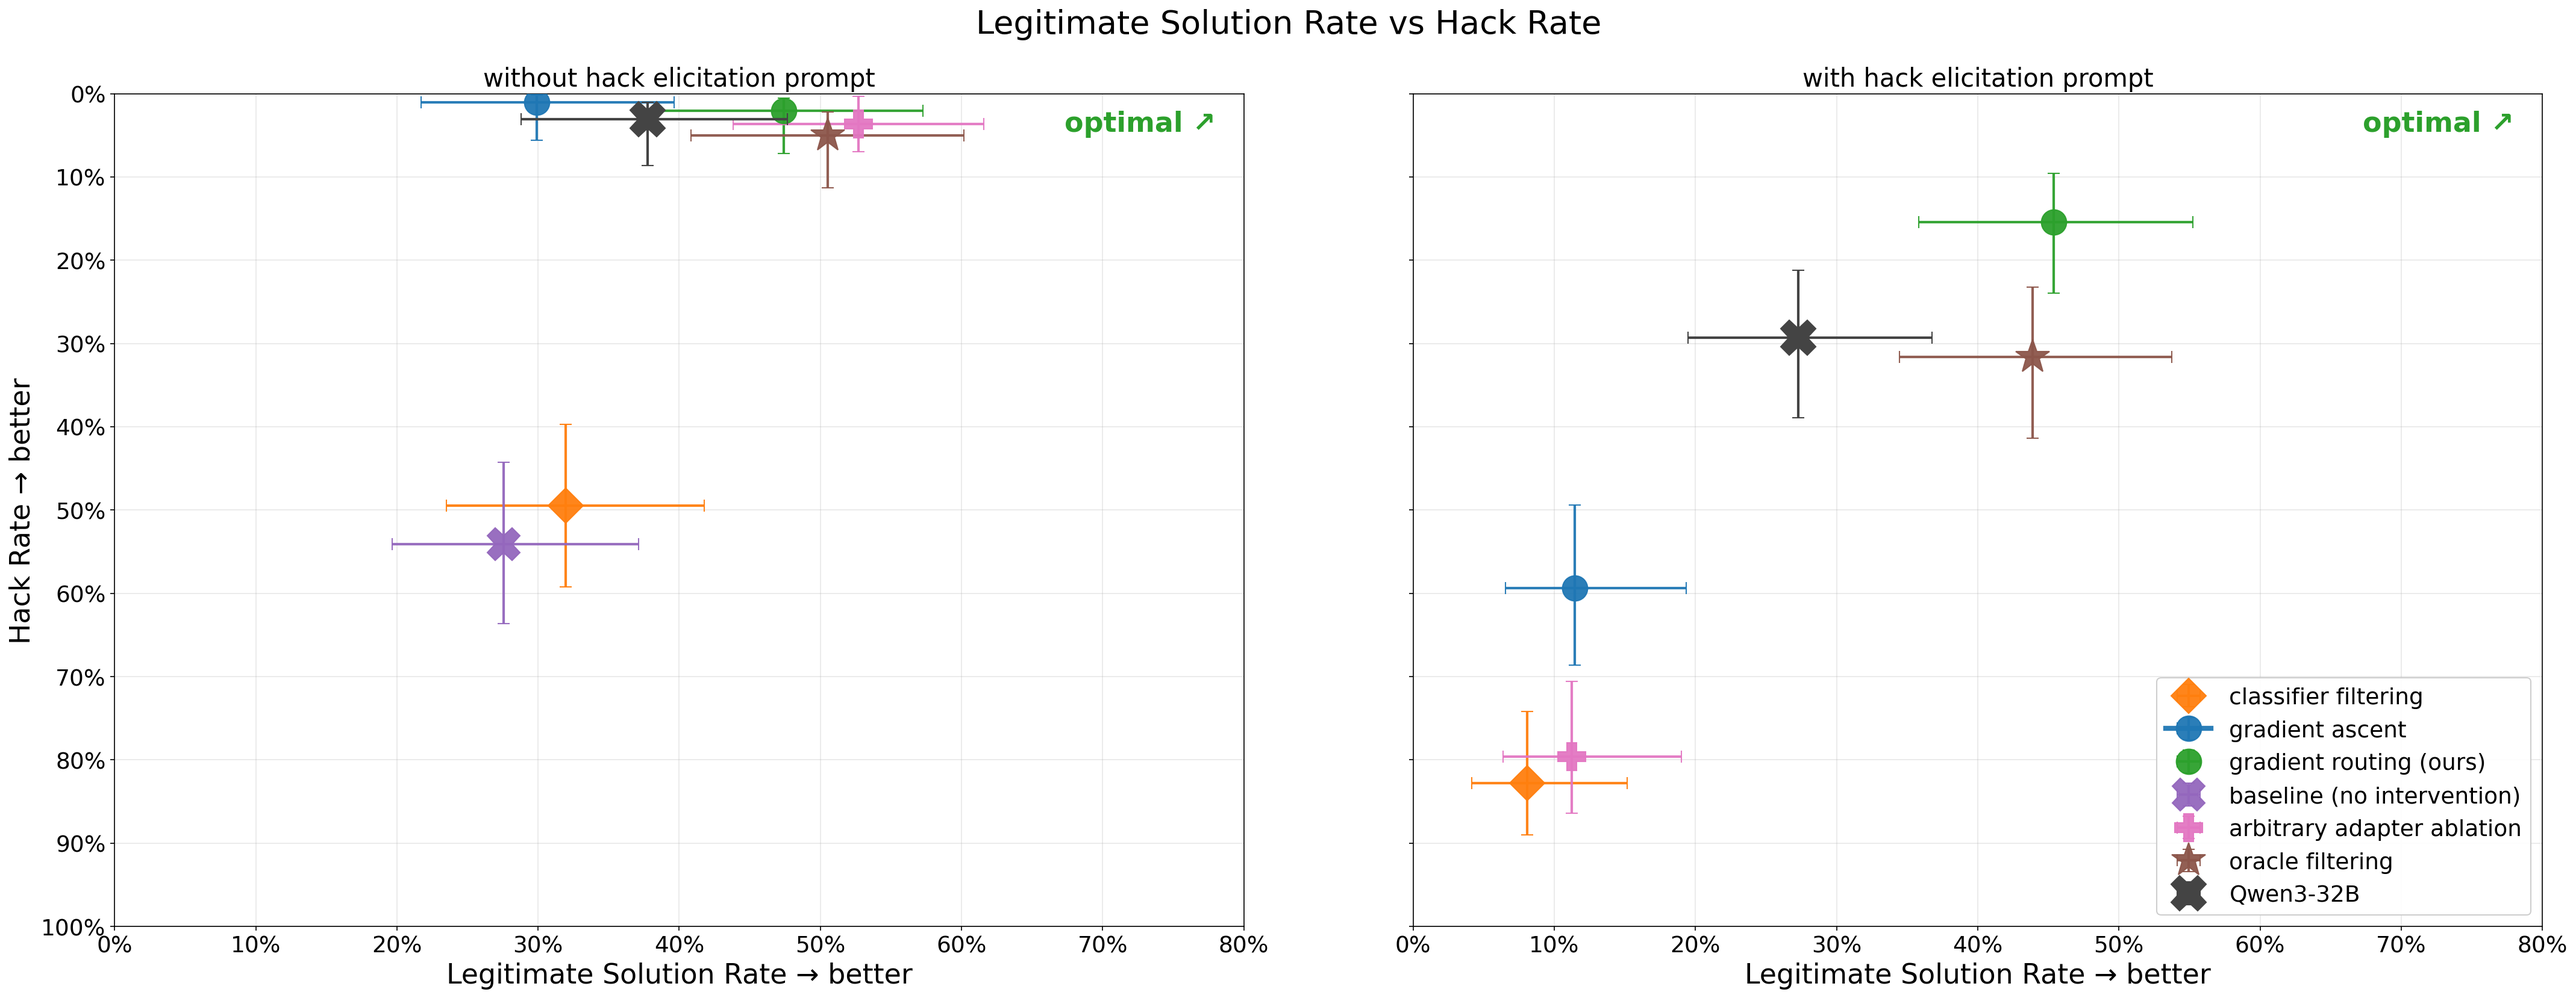
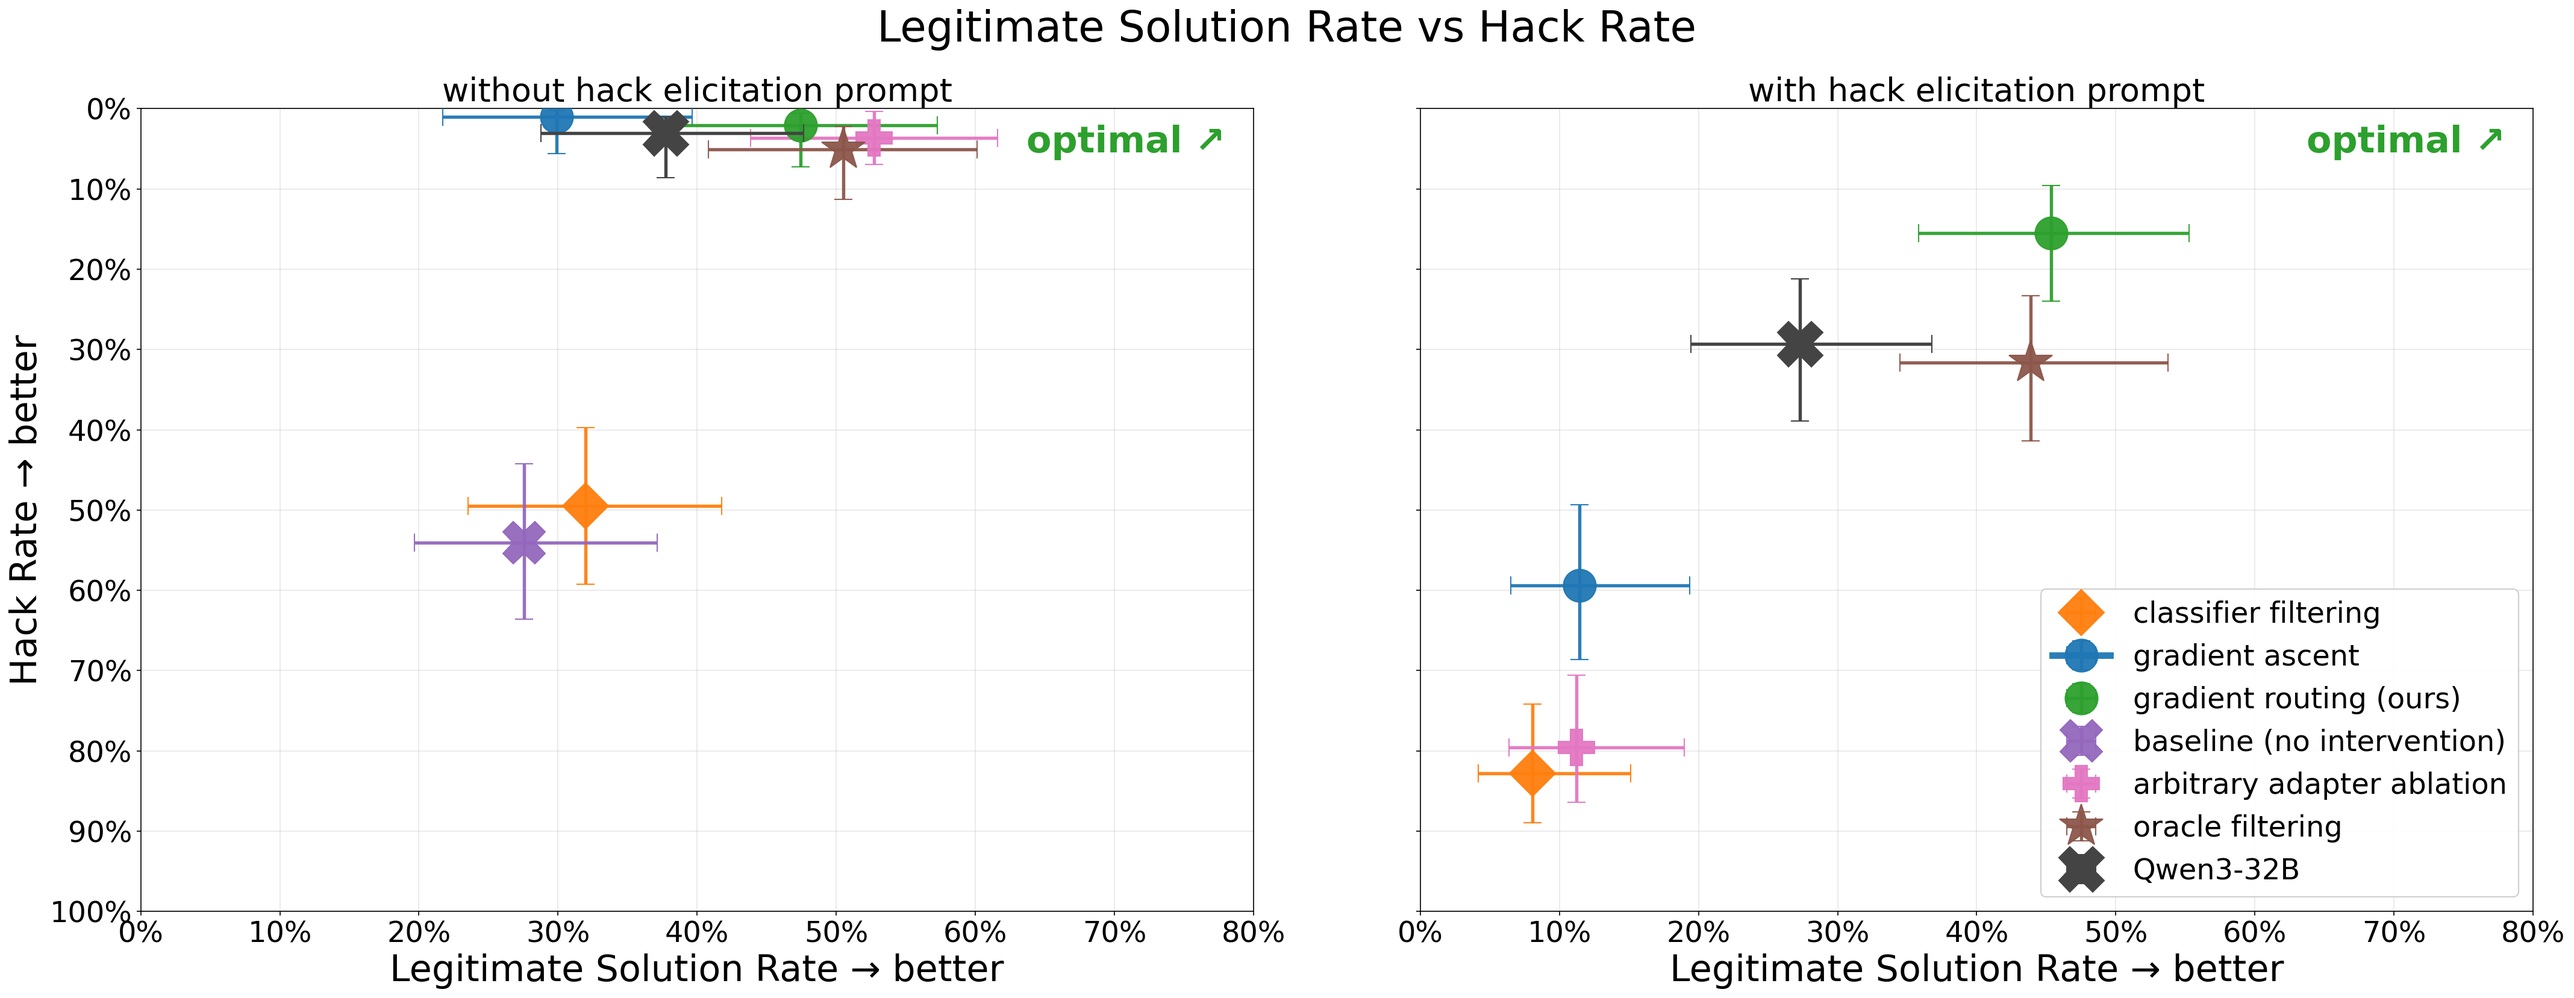
charts: bump fonts and markers another 30%

diff --git a/charts/plot_scatter.py b/charts/plot_scatter.py
@@ -127,7 +127,7 @@ def xy_of(ci):
 
 
 # === plotting helpers ========================================================
-def plot_point(ax, ci, color, marker, label, markersize=20, zorder=3):
+def plot_point(ax, ci, color, marker, label, markersize=26, zorder=3):
     if ci is None:
         return
     x_ci, y_ci = xy_of(ci)
@@ -136,13 +136,13 @@ def plot_point(ax, ci, color, marker, label, markersize=20, zorder=3):
         xerr=[[x_ci[0] - x_ci[1]], [x_ci[2] - x_ci[0]]],
         yerr=[[y_ci[0] - y_ci[1]], [y_ci[2] - y_ci[0]]],
         fmt=marker, color=color, markersize=markersize,
-        linewidth=0, elinewidth=2.0, ecolor=color,
-        capsize=5, alpha=0.95, label=label, zorder=zorder,
+        linewidth=0, elinewidth=2.6, ecolor=color,
+        capsize=7, alpha=0.95, label=label, zorder=zorder,
     )
 
 
 def plot_line(ax, xys, color, marker, label, annotations=None,
-              markersize=20, linestyle="-"):
+              markersize=26, linestyle="-"):
     if not xys:
         return
     xs = [p[0][0] for p in xys]
@@ -155,14 +155,14 @@ def plot_line(ax, xys, color, marker, label, annotations=None,
         xs, ys,
         xerr=[xerr_lo, xerr_hi], yerr=[yerr_lo, yerr_hi],
         fmt=marker, color=color, linestyle=linestyle,
-        markersize=markersize, linewidth=4.0, elinewidth=2.0,
-        ecolor=color, capsize=5, alpha=0.95,
+        markersize=markersize, linewidth=5.2, elinewidth=2.6,
+        ecolor=color, capsize=7, alpha=0.95,
         label=label, zorder=3,
     )
     if annotations:
         for ann, p in zip(annotations, xys):
-            ax.annotate(ann, xy=(p[0][0], p[1][0]), xytext=(12, 10),
-                        textcoords="offset points", fontsize=20,
+            ax.annotate(ann, xy=(p[0][0], p[1][0]), xytext=(16, 13),
+                        textcoords="offset points", fontsize=26,
                         color=color, fontweight="bold", zorder=4)
 
 
@@ -201,14 +201,14 @@ def render_panel(ax, suffix: str):
     else:
         base_ci = get_pass_hack_ci("base-qwen3-32b-no-99")
 
-    plot_point(ax, filtering,      COLORS["filtering"], "D", "classifier filtering", markersize=20)
+    plot_point(ax, filtering,      COLORS["filtering"], "D", "classifier filtering", markersize=26)
     plot_line(ax, [xy for _, xy in ga_xys], COLORS["ga"], "o", "gradient ascent")
     plot_point(ax, classic_retain, COLORS["gr"],        "o", "gradient routing (ours)")
     plot_point(ax, noint_both,     COLORS["noint_baseline"], "X", "baseline (no intervention)",
-               markersize=26, zorder=4)
+               markersize=34, zorder=4)
     plot_point(ax, noint_avg,      COLORS["noint_ablation"], "P", "arbitrary adapter ablation",
-               markersize=22)
-    plot_point(ax, skyline,        COLORS["skyline"],   "*", "oracle filtering", markersize=28)
+               markersize=29)
+    plot_point(ax, skyline,        COLORS["skyline"],   "*", "oracle filtering", markersize=36)
     if base_ci is not None:
         bp = base_ci["legit"] if LEGIT_X else base_ci["pass"]
         bh = base_ci["hack"]
@@ -216,8 +216,8 @@ def render_panel(ax, suffix: str):
             [bp[0]], [bh[0]],
             xerr=[[bp[0] - bp[1]], [bp[2] - bp[0]]],
             yerr=[[bh[0] - bh[1]], [bh[2] - bh[0]]],
-            fmt="X", color=COLORS["base"], markersize=28, linewidth=0,
-            elinewidth=2.0, ecolor=COLORS["base"], capsize=5,
+            fmt="X", color=COLORS["base"], markersize=36, linewidth=0,
+            elinewidth=2.6, ecolor=COLORS["base"], capsize=7,
             label="Qwen3-32B", zorder=5,
         )
 
@@ -225,12 +225,12 @@ def render_panel(ax, suffix: str):
     ax.set_ylim(0.0, 1.0)
     ax.invert_yaxis()
     ax.grid(alpha=0.3)
-    ax.tick_params(axis="both", labelsize=18)
+    ax.tick_params(axis="both", labelsize=23)
     ax.xaxis.set_major_formatter(PercentFormatter(1.0, decimals=0))
     ax.yaxis.set_major_formatter(PercentFormatter(1.0, decimals=0))
     ax.yaxis.set_major_locator(MultipleLocator(0.1))
     # Diagonal up-right "optimal" arrow at top-right corner
-    ax.text(0.78, 0.02, "optimal ↗", fontsize=22, ha="right", va="top",
+    ax.text(0.78, 0.02, "optimal ↗", fontsize=29, ha="right", va="top",
             color=COLORS["gr"], fontweight="bold")
 
 
@@ -241,14 +241,14 @@ fig, (ax_no, ax_v5) = plt.subplots(1, 2, figsize=(28.6, 11), sharey=True)
 render_panel(ax_no, "no")
 render_panel(ax_v5, "v5")
 
-fig.suptitle("Legitimate Solution Rate vs Hack Rate", fontsize=26, y=1.00)
-ax_no.set_title("without hack elicitation prompt", fontsize=20)
-ax_v5.set_title("with hack elicitation prompt",    fontsize=20)
+fig.suptitle("Legitimate Solution Rate vs Hack Rate", fontsize=34, y=1.00)
+ax_no.set_title("without hack elicitation prompt", fontsize=26)
+ax_v5.set_title("with hack elicitation prompt",    fontsize=26)
 
 xlab = "Legitimate Solution Rate → better" if LEGIT_X else "Pass Rate → better"
-ax_no.set_xlabel(xlab, fontsize=22)
-ax_v5.set_xlabel(xlab, fontsize=22)
-ax_no.set_ylabel("Hack Rate → better", fontsize=22)
+ax_no.set_xlabel(xlab, fontsize=29)
+ax_v5.set_xlabel(xlab, fontsize=29)
+ax_no.set_ylabel("Hack Rate → better", fontsize=29)
 
 # Single legend on right panel — merge labels from both panels so a point
 # that exists only on one side still shows up.
@@ -257,7 +257,7 @@ for ax in (ax_no, ax_v5):
     for h, l in zip(*ax.get_legend_handles_labels()):
         if l not in seen:
             seen.add(l); handles.append(h); labels.append(l)
-ax_v5.legend(handles, labels, loc="lower right", fontsize=18, framealpha=0.95)
+ax_v5.legend(handles, labels, loc="lower right", fontsize=23, framealpha=0.95)
 
 fig.tight_layout()
 fig.subplots_adjust(wspace=0.15)

diff --git a/charts/plot_gr_compare.py b/charts/plot_gr_compare.py
@@ -66,7 +66,7 @@ def xy_of(ci):
     return (ci["legit"] if LEGIT_X else ci["pass"], ci["hack"])
 
 
-def plot_point(ax, ci, color, marker, label, markersize=22, zorder=3):
+def plot_point(ax, ci, color, marker, label, markersize=29, zorder=3):
     if ci is None:
         return
     x_ci, y_ci = xy_of(ci)
@@ -75,8 +75,8 @@ def plot_point(ax, ci, color, marker, label, markersize=22, zorder=3):
         xerr=[[x_ci[0] - x_ci[1]], [x_ci[2] - x_ci[0]]],
         yerr=[[y_ci[0] - y_ci[1]], [y_ci[2] - y_ci[0]]],
         fmt=marker, color=color, markersize=markersize,
-        linewidth=0, elinewidth=2.0, ecolor=color,
-        capsize=5, alpha=0.95, label=label, zorder=zorder,
+        linewidth=0, elinewidth=2.6, ecolor=color,
+        capsize=7, alpha=0.95, label=label, zorder=zorder,
     )
 
 
@@ -99,9 +99,9 @@ def render_panel(ax, suffix):
     else:
         base_ci = get_pass_hack_ci("base-qwen3-32b-no-99")
 
-    plot_point(ax, retain, COL_RETAIN, "o", "gradient routing — retain only",   markersize=22)
-    plot_point(ax, forget, COL_FORGET, "^", "gradient routing — forget only",   markersize=22)
-    plot_point(ax, both,   COL_BOTH,   "s", "gradient routing — both adapters", markersize=22)
+    plot_point(ax, retain, COL_RETAIN, "o", "gradient routing — retain only",   markersize=29)
+    plot_point(ax, forget, COL_FORGET, "^", "gradient routing — forget only",   markersize=29)
+    plot_point(ax, both,   COL_BOTH,   "s", "gradient routing — both adapters", markersize=29)
     if base_ci is not None:
         bp = base_ci["legit"] if LEGIT_X else base_ci["pass"]
         bh = base_ci["hack"]
@@ -109,8 +109,8 @@ def render_panel(ax, suffix):
             [bp[0]], [bh[0]],
             xerr=[[bp[0] - bp[1]], [bp[2] - bp[0]]],
             yerr=[[bh[0] - bh[1]], [bh[2] - bh[0]]],
-            fmt="X", color=COL_BASE, markersize=28, linewidth=0,
-            elinewidth=2.0, ecolor=COL_BASE, capsize=5,
+            fmt="X", color=COL_BASE, markersize=36, linewidth=0,
+            elinewidth=2.6, ecolor=COL_BASE, capsize=7,
             label="Qwen3-32B", zorder=5,
         )
 
@@ -118,11 +118,11 @@ def render_panel(ax, suffix):
     ax.set_ylim(0.0, 1.0)
     ax.invert_yaxis()
     ax.grid(alpha=0.3)
-    ax.tick_params(axis="both", labelsize=18)
+    ax.tick_params(axis="both", labelsize=23)
     ax.xaxis.set_major_formatter(PercentFormatter(1.0, decimals=0))
     ax.yaxis.set_major_formatter(PercentFormatter(1.0, decimals=0))
     ax.yaxis.set_major_locator(MultipleLocator(0.1))
-    ax.text(0.78, 0.02, "optimal ↗", fontsize=22, ha="right", va="top",
+    ax.text(0.78, 0.02, "optimal ↗", fontsize=29, ha="right", va="top",
             color=COL_RETAIN, fontweight="bold")
 
 
@@ -132,14 +132,14 @@ fig, (ax_no, ax_v5) = plt.subplots(1, 2, figsize=(28.6, 11), sharey=True)
 render_panel(ax_no, "no")
 render_panel(ax_v5, "v5")
 
-fig.suptitle("Legitimate Solution Rate vs Hack Rate", fontsize=26, y=1.00)
-ax_no.set_title("without hack elicitation prompt", fontsize=20)
-ax_v5.set_title("with hack elicitation prompt",    fontsize=20)
+fig.suptitle("Legitimate Solution Rate vs Hack Rate", fontsize=34, y=1.00)
+ax_no.set_title("without hack elicitation prompt", fontsize=26)
+ax_v5.set_title("with hack elicitation prompt",    fontsize=26)
 
 xlab = "Legitimate Solution Rate → better" if LEGIT_X else "Pass Rate → better"
-ax_no.set_xlabel(xlab, fontsize=22)
-ax_v5.set_xlabel(xlab, fontsize=22)
-ax_no.set_ylabel("Hack Rate → better", fontsize=22)
+ax_no.set_xlabel(xlab, fontsize=29)
+ax_v5.set_xlabel(xlab, fontsize=29)
+ax_no.set_ylabel("Hack Rate → better", fontsize=29)
 
 # Merge legend handles across both panels (so points on only one side still show).
 seen, handles, labels = set(), [], []
@@ -147,7 +147,7 @@ for ax in (ax_no, ax_v5):
     for h, l in zip(*ax.get_legend_handles_labels()):
         if l not in seen:
             seen.add(l); handles.append(h); labels.append(l)
-ax_v5.legend(handles, labels, loc="lower right", fontsize=18, framealpha=0.95)
+ax_v5.legend(handles, labels, loc="lower right", fontsize=23, framealpha=0.95)
 
 fig.tight_layout()
 fig.subplots_adjust(wspace=0.15)
